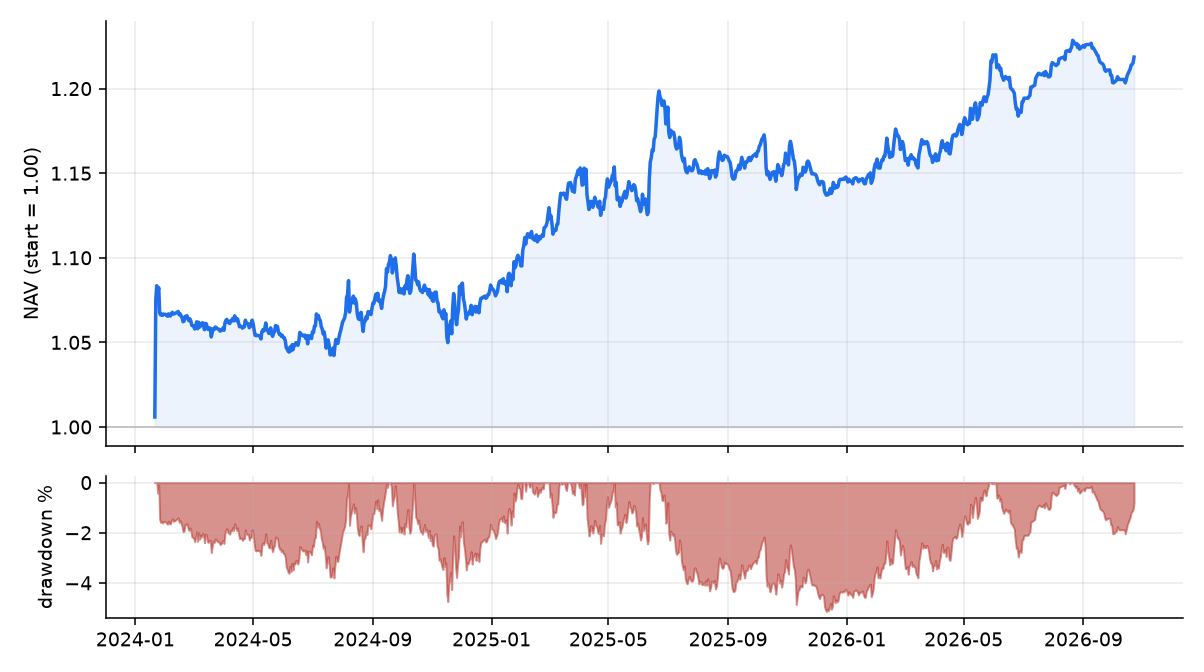
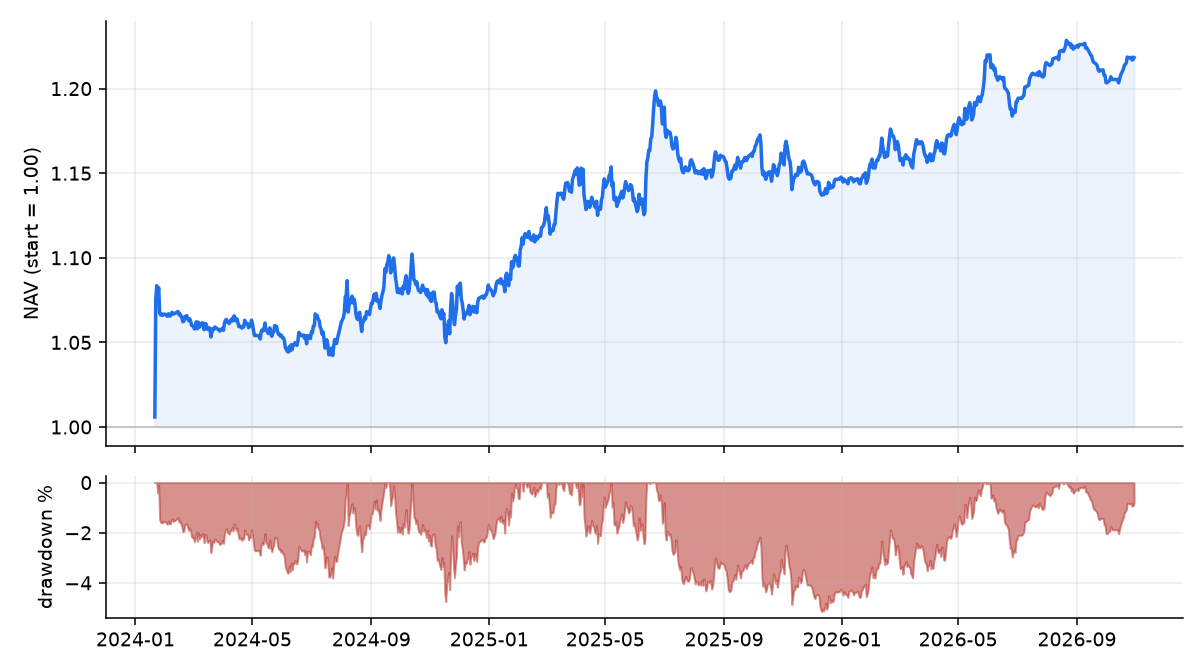
live: NAV update 2026-11-09T09:17Z

diff --git a/index.html b/index.html
@@ -3,7 +3,7 @@
 <title>Alpha Research — Live Book</title>
 <meta name="description" content="Live paper-traded NAV of the Alpha Research diversified risk-premium book: crypto carry/trend + FX carry/value, risk-parity, vol-targeted, net of costs. Updated daily.">
 <meta property="og:title" content="Alpha Research — Live Book">
-<meta property="og:description" content="Paper-traded NAV of the diversified risk-premium book, updated daily. Sharpe 0.87, NAV 1.219 since 2024-01-01.">
+<meta property="og:description" content="Paper-traded NAV of the diversified risk-premium book, updated daily. Sharpe 0.87, NAV 1.218 since 2024-01-01.">
 <meta property="og:type" content="website"><meta property="og:url" content="https://alpha.vineai.tech/">
 <meta property="og:image" content="https://alpha.vineai.tech/nav.png">
 <meta property="og:image:width" content="1204"><meta property="og:image:height" content="672">
@@ -36,18 +36,18 @@ footer{margin-top:46px;padding-top:16px;border-top:1px solid var(--rule);color:v
 <header>
   <div class="tag">Alpha Research · Live Book</div>
   <h1>The diversified risk-premium book, paper-traded live</h1>
-  <p class="sub">Inception 2024-01-01 · data through 2026-10-23 · updated 2026-11-08 09:17:56 UTC<br>
+  <p class="sub">Inception 2024-01-01 · data through 2026-10-30 · updated 2026-11-09 09:17:49 UTC<br>
   The capstone of the <a href="https://bryanvine.github.io/alpha-research/">Alpha Research</a> series
   (<a href="https://bryanvine.github.io/alpha-research/paper7.html">Paper 7</a>), tracked forward as a paper portfolio.</p>
 </header>
 
-<div class="cards"><div class="card"><div class="k">NAV</div><div class="v pos">1.219</div></div><div class="card"><div class="k">Total return</div><div class="v pos">+21.9%</div></div><div class="card"><div class="k">Annualized</div><div class="v pos">+5.2%</div></div><div class="card"><div class="k">Sharpe</div><div class="v pos">0.87</div></div><div class="card"><div class="k">Volatility</div><div class="v mut">6.1%</div></div><div class="card"><div class="k">Max drawdown</div><div class="v neg">-5.1%</div></div></div>
+<div class="cards"><div class="card"><div class="k">NAV</div><div class="v pos">1.218</div></div><div class="card"><div class="k">Total return</div><div class="v pos">+21.8%</div></div><div class="card"><div class="k">Annualized</div><div class="v pos">+5.2%</div></div><div class="card"><div class="k">Sharpe</div><div class="v pos">0.87</div></div><div class="card"><div class="k">Volatility</div><div class="v mut">6.0%</div></div><div class="card"><div class="k">Max drawdown</div><div class="v neg">-5.1%</div></div></div>
 
 <figure><img src="nav.png" alt="Live NAV equity curve and drawdown"></figure>
 
 <h2>Current target weights &amp; sleeve performance</h2>
 <table><thead><tr><th>Sleeve</th><th>Weight</th><th>Sharpe (since inception)</th></tr></thead>
-<tbody><tr><td>Crypto funding carry</td><td>nan%</td><td class="pos">+0.96</td></tr><tr><td>Crypto trend</td><td>nan%</td><td class="pos">+0.18</td></tr><tr><td>FX carry</td><td>52.9%</td><td class="pos">+0.80</td></tr><tr><td>FX value</td><td>47.1%</td><td class="neg">-0.80</td></tr></tbody></table>
+<tbody><tr><td>Crypto funding carry</td><td>nan%</td><td class="pos">+0.96</td></tr><tr><td>Crypto trend</td><td>nan%</td><td class="pos">+0.18</td></tr><tr><td>FX carry</td><td>54.1%</td><td class="pos">+0.77</td></tr><tr><td>FX value</td><td>45.9%</td><td class="neg">-0.77</td></tr></tbody></table>
 
 <div class="note"><strong>What this is.</strong> A risk-parity, 10%/yr-vol-targeted combination of the
 daily-tradable survivors from the research program — crypto funding carry, crypto trend, and G10 FX
